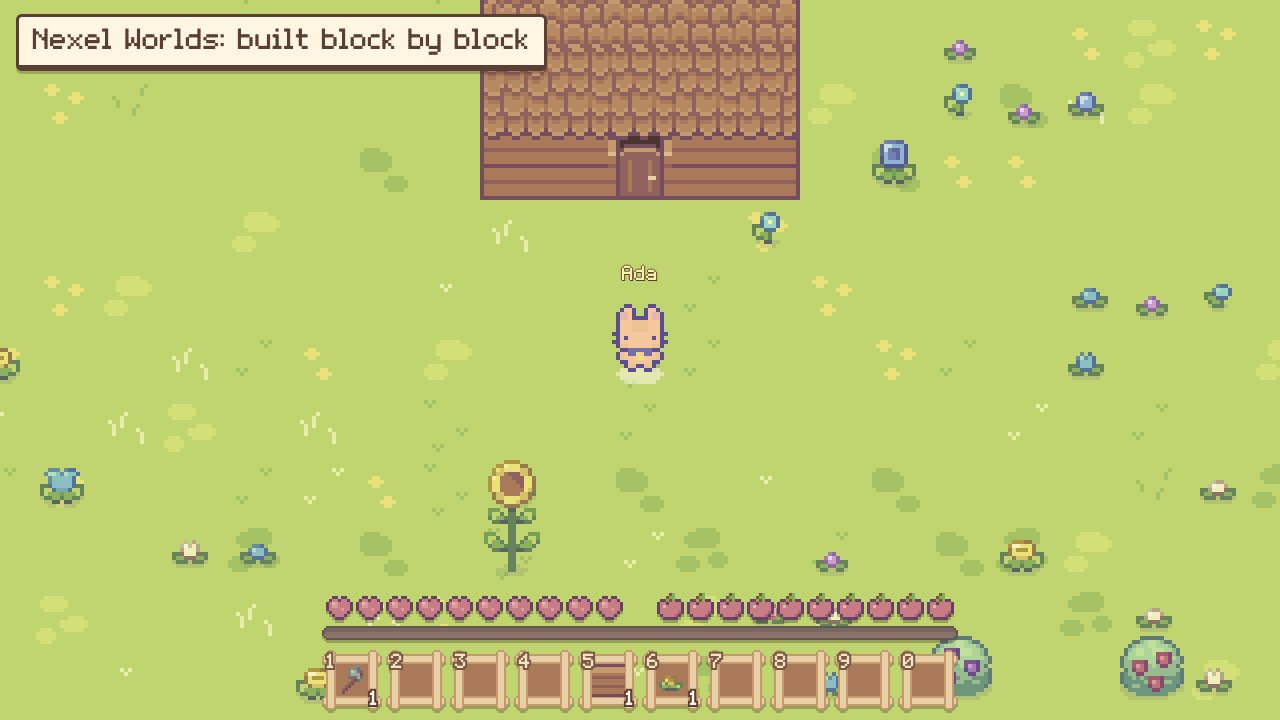
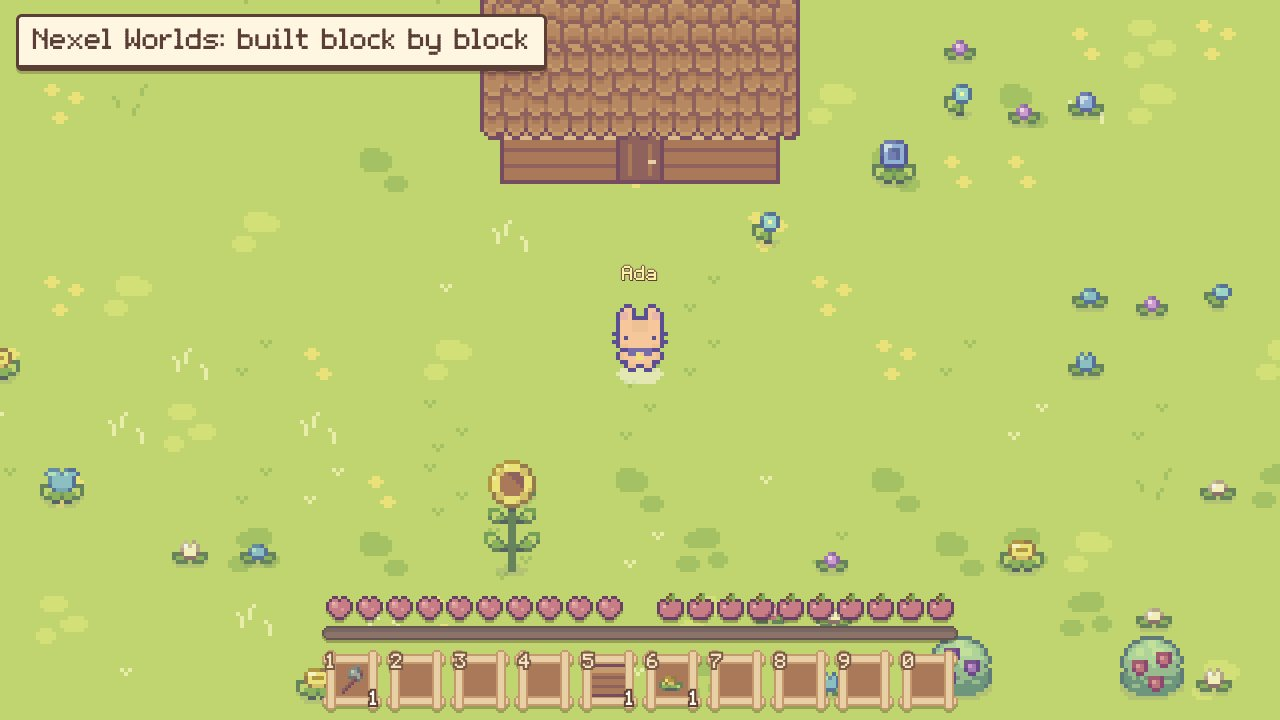
feat(web): walls are thin, on their own tile: nothing hidden, nothing
Walls are thin, on their own tile: nothing hidden, nothing seen through, a gap is a gap

Walls a tile high hid the row behind them, so their tops were seen through
near you (an x-ray with no roof), and a gap in a wall running north showed
as a patch of planks. A wall is thin now, as the pack's house walls and the
fences are: its front where nothing is south of it, a band where a wall goes
on, joined at corners and Ts. A side door: posts, a leaf, a shadow under it.

Claude-Session: https://claude.ai/code/session_011zaXs2MUMAd8vYwC7YncED

Changed region(s): [[0.375, 0.1833, 0.625, 0.275]]

diff --git a/src/megastructure/web/js/structures.js b/src/megastructure/web/js/structures.js
@@ -1,26 +1,26 @@
 // What is built, drawn a piece at a time. A house was walls drawn as small blocks until they closed a room; then
 // a roof and a tall front were drawn over the lot in one go: a house dropped onto the world. Now each wall is
 // itself from the first one laid, and a roof is tiles laid one by one (the server keeps where: sim/roofing.py).
-//   A wall is a block, a tile high: its top, drawn a tile up (over the tile north of it: it hides what is behind
-//   it), the same for every wall, edged where no wall is beside it; and, where nothing is built south of it, its
-//   front under that: the pack's planks (stone: its stones). So a wall running east is a band of top over a band of
-//   front, one running north a band of top with a front at its south end, and they meet as one thing at a corner.
-//   (They were two things: fronts with a trim over them one way, wide flat bands the other.)
-//   A door in a run east-west is the pack's door in that front, as it is drawn (it was stretched). In a run
-//   north-south it is seen from above, as the game's holes are: the wall's band is open over the door's own tile
-//   (the top of the wall south of it is left out there, or it would hide the way through), dark in under the
-//   lintel and lighter towards you, the band's edges going on as its posts, and the door's leaf across it, shut,
-//   or back against a post while someone goes through.
+//   A wall is thin, as the pack's own house walls are and as a fence is: it stands in the middle of its tile and
+//   everything of it is drawn on that tile (4 px over it), so it hides nothing behind it. Where nothing is built
+//   south of it, it shows its front: a cap over planks, from the wall beside it (or its own middle) to the wall on
+//   its other side. Where a wall goes on south of it, it shows its top: a band 6 px wide down the middle of the
+//   tile, and the front of a wall joining it from a side runs up to that band. So a corner, a T and a crossing are
+//   one wall, a gap in a wall is a gap, and a wall that ends has an end.
+//   (Twice before: fronts one way and wide flat bands the other, which met badly; then blocks a tile high, whose
+//   tops hid the row behind them, were seen through to make up for it, and turned a gap into a patch of planks.)
+//   A door in a run east-west is the pack's door, as it is drawn. In a run north-south it is seen from above: the
+//   band's two ends as its posts, the leaf between them (back against a post while someone goes through), and
+//   under it the doorway's shadow, the dark of the game's holes.
 //   Nothing is put on a wall that you did not put there (windows came by themselves, one wall in three).
 //   A roof tile is drawn over its tile, a tile and a bit up (on the walls): its top edge scalloped where no roof
 //   is north of it, its eave where none is south, its sides where none is beside it, the ridge half way down its run.
-// Where you stand under a roof, that whole roof is seen through; so are the wall tops south of you and near (a
-// wall a tile high hides the row behind it: you, and what you are at); in build mode every roof is, so that what
-// is under it can be planned.
+// Where you stand under a roof, that whole roof is seen through; in build mode every roof is, so that what is
+// under it can be planned. Walls are never seen through: they are in nothing's way.
 // (A server from before roofs were laid by hand says so by not saying `roofs`: houses.js then draws as it did.)
 let ROOFS = false, roofVer = 0;
 const Structures = (() => {
-  const WALLS = "W%+", LIFT = 22, INK = "#754c60", CAP = "#c49a6c", BEVEL = "#b68962", STONE = ["#8a8f8c", "#b6bab1", "#9da89a"];
+  const WALLS = "W%+", LIFT = 22, INK = "#754c60", CAP = "#c49a6c", STONE = ["#6f7471", "#b6bab1"];
   const wall = (x, y) => WALLS.includes(combAt(x, y) || "-");
   const sideDoor = (x, y) => combAt(x, y) === "+" && !wall(x - 1, y) && !wall(x + 1, y) && (wall(x, y - 1) || wall(x, y + 1));      // a door in a run north-south
   const roofAt = (x, y) => { const t = tileIdx(x, y); return !!t && !!t[0].roofs && t[0].roofs.has(t[1]); };
@@ -39,60 +39,47 @@ const Structures = (() => {
     return (under = {at, ver: roofVer, tiles}).tiles;
   }
   const seeThrough = (x, y) => (mine().has(x + "," + y) ? .12 : Build.on ? .4 : 1);          // how much of the roof tile at (x, y) is drawn
-  // A wall's top: a plain cap a tile up, edged where no wall is beside it, a darker line along its south where its
-  // front begins
-  function cap(px, py, z, x, y, stone) {
-    const top = py - 16 * z, open = (dx, dy) => !wall(x + dx, y + dy);
-    ctx.fillStyle = stone ? STONE[1] : CAP; ctx.fillRect(px, top, 16 * z, 16 * z);
-    ctx.fillStyle = stone ? STONE[2] : BEVEL;
-    if (open(0, -1)) ctx.fillRect(px, top + z, 16 * z, z);
-    if (open(0, 1)) ctx.fillRect(px, top + 14 * z, 16 * z, z);
-    if (open(-1, 0)) ctx.fillRect(px + z, top, z, 16 * z);
-    if (open(1, 0)) ctx.fillRect(px + 14 * z, top, z, 16 * z);
-    ctx.fillStyle = stone ? STONE[0] : INK;
-    if (open(-1, 0)) ctx.fillRect(px, top, z, 16 * z);
-    if (open(1, 0)) ctx.fillRect(px + 15 * z, top, z, 16 * z);
-    if (open(0, -1)) ctx.fillRect(px, top, 16 * z, z);
-    if (open(0, 1)) ctx.fillRect(px, top + 15 * z, 16 * z, z);
-  }
   // A door: open while someone is by it (as houses.js has it), and the sheet's frame for how far (5: shut)
   function doorFrame(x, y) {
-    const key = x + "," + y, near = [[0, 0], [0, -1], [0, 1]].some(([dx, dy]) => occupied.has((x + dx) + "," + (y + dy)));
+    const key = x + "," + y, near = [[0, 0], [0, -1], [0, 1], [1, 0], [-1, 0]].some(([dx, dy]) => occupied.has((x + dx) + "," + (y + dy)));
     const o = Math.max(0, Math.min(1, (doors.get(key) || 0) + (near ? .15 : -.1)));
     if (!(doors.get(key) || 0) && o) sfx("gate", x, y);
     doors.set(key, o);
     return 5 - Math.round(o * 5);
   }
-  // The way through a door in a run north-south, on the door's own tile: shaded as a hole is (caves.js: its dark,
-  // deepest in under the lintel), a post each side, and the leaf
-  function passage(px, py, z, x, y, a) {
-    const r = (c, X, Y, W_, H_) => { ctx.fillStyle = c; ctx.fillRect(px + X * z, py + Y * z, W_ * z, H_ * z); };
-    ctx.globalAlpha = a;
-    r(`rgba(${SHADE},.42)`, 2, 0, 12, 16);
-    [.4, .28, .18, .09].forEach((al, k) => r(`rgba(${SHADE},${al})`, 2, k * 3, 12, 3));
-    r(INK, 0, 0, 1, 16); r(BEVEL, 1, 0, 1, 16); r(BEVEL, 14, 0, 1, 16); r(INK, 15, 0, 1, 16);
-    if ((a === 1 ? doorFrame(x, y) : 5) >= 3) { r(INK, 2, 6, 12, 4); r("#90625d", 2, 7, 12, 2); r("#e8cfa6", 11, 7, 1, 1); }      // shut: across the way
-    else { r(INK, 2, 0, 3, 11); r("#90625d", 2, 1, 2, 9); }                                                                    // open: back against its post
-    ctx.globalAlpha = 1;
-  }
-  // (a: how much of it is drawn: a plan's ghost is half there)
+  // One wall, on its own tile (UP px over it). a: how much of it is drawn (a plan's ghost is half there)
+  const UP = 4, L = 5, R = 11;                          // how far over its tile it stands; the band's two edges
   function drawWall(c, x, y, sx, sy, S, now, a = 1) {
-    const z = zoom, px = sx(x), py = sy(y, x), south = wall(x, y + 1), w = wall(x - 1, y), e = wall(x + 1, y), stone = c === "%";
-    // (its top is seen through when it would hide where you are: you are north of it, near, or under the roof behind it)
-    const s = myPos(), hides = a === 1 && s && ((s.y < y && y - s.y <= 4 && Math.abs(x - s.x) <= 5) || mine().has(x + "," + (y - 1)));
-    const side = sideDoor(x, y);
-    if (side) passage(px, py, z, x, y, a);
-    else if (!south) {                                 // its front
-      ctx.globalAlpha = a;
-      if (c === "+") {                                 // the pack's door between its posts, a dark doorway behind it
-        ctx.fillStyle = "#4a3530"; ctx.fillRect(px + 3 * z, py, 10 * z, 15 * z);
-        ctx.drawImage(IMG.door, (a === 1 ? doorFrame(x, y) : 5) * 16, 0, 16, 16, px, py, S, S);
-      } else if (stone) { const [gx, gy] = genCell("stone_wall"); ctx.drawImage(IMG.gen, gx, gy, 16, 16, px, py, S, S); }
-      else { const [fx, fy] = FRONT[!w ? 0 : !e ? 2 : 1]; ctx.drawImage(IMG.house_walls, fx, fy + 8, 16, 8, px, py, S, 8 * z); ctx.drawImage(IMG.house_walls, fx, fy + 8, 16, 8, px, py + 8 * z, S, 8 * z); }
+    const z = zoom, px = sx(x), py = sy(y, x) - UP * z, n = wall(x, y - 1), s = wall(x, y + 1), w = wall(x - 1, y), e = wall(x + 1, y), stone = c === "%";
+    const ink = stone ? STONE[0] : INK, top = stone ? STONE[1] : CAP, x0 = w ? 0 : L, x1 = e ? 16 : R;
+    const r = (col, X, Y, W_, H_) => { ctx.fillStyle = col; ctx.fillRect(px + X * z, py + Y * z, W_ * z, H_ * z); };
+    const planks = (X, W_) => {                         // a wall's front: under its cap, the pack's planks (stone: its stones)
+      if (W_ <= 0) return;
+      if (stone) { const [gx, gy] = genCell("stone_wall"); ctx.drawImage(IMG.gen, gx + X, gy + 2, W_, 12, px + X * z, py + 4 * z, W_ * z, 12 * z); }
+      else ctx.drawImage(IMG.house_walls, 56 + X, 4, W_, 12, px + X * z, py + 4 * z, W_ * z, 12 * z);
+    };
+    const cap = (X0, X1) => { r(top, X0, 1, X1 - X0, 3); r(ink, X0, 0, X1 - X0, 1); };
+    ctx.globalAlpha = a;
+    if (sideDoor(x, y)) {                               // seen from above: its posts, its leaf, the doorway's shadow under it
+      [.3, .2, .1].forEach((al, k) => r(`rgba(${SHADE},${al})`, 3 - k, 4, 10 + 2 * k, 8));
+      for (const Y of [0, 12]) { r(ink, L, Y, 6, 4); r(top, L + 1, Y + (Y ? 0 : 1), 4, 3); }
+      if ((a === 1 ? doorFrame(x, y) : 5) >= 3) { r(INK, 6, 4, 4, 8); r("#90625d", 7, 4, 2, 8); r("#e8cfa6", 7, 9, 1, 1); }       // shut: across the way
+      else { r(INK, R, 3, 5, 4); r("#90625d", R, 4, 4, 2); }                                                                   // open: swung back from its post
+    } else if (c === "+") {                             // the pack's door between its posts, a dark doorway behind it
+      r("#4a3530", 3, 1, 10, 14);
+      ctx.drawImage(IMG.door, (a === 1 ? doorFrame(x, y) : 5) * 16, 0, 16, 16, px, py, S, S);
+    } else if (!s) {                                    // nothing south of it: its front, from one side of it to the other
+      planks(x0, x1 - x0); cap(x0, x1);
+      if (!w) r(ink, x0, 0, 1, 16);
+      if (!e) r(ink, x1 - 1, 0, 1, 16);
+    } else {                                            // a wall goes on south of it: its top, a band; a wall from a side joins it
+      if (w) planks(0, L);
+      if (e) planks(R, 16 - R);
+      r(ink, L, 0, 1, 16); r(ink, R - 1, 0, 1, 16); r(top, L + 1, 0, R - L - 2, 16);
+      if (w) { cap(0, L + 1); r(top, L, 1, 1, 3); }
+      if (e) { cap(R - 1, 16); r(top, R - 1, 1, 1, 3); }
+      if (!n) r(ink, L, 0, R - L, 1);
     }
-    if (sideDoor(x, y - 1)) return;                    // (the wall south of such a door: its top would lie over the way through)
-    ctx.globalAlpha = a * (hides ? .3 : 1);
-    cap(px, py, z, x, y, stone);
     ctx.globalAlpha = 1;
   }
   // One roof tile: the middle of the sheet's roof, its edges laid over it where the roof ends

diff --git a/tests/e2e/test_e2e_build.py b/tests/e2e/test_e2e_build.py
@@ -151,20 +151,27 @@ def test_what_the_audit_of_build_mode_found_is_mended(game):
     assert not game.errors
 
 
-def test_a_door_in_a_wall_that_runs_north_is_an_opening_shaded_as_a_hole(game):
-    """A door in a wall running north and south was the wall's top, half seen through: no door, no way to be seen
-    going through it. It is an opening in the wall's band over the door's own tile, dark as the game's holes are
-    under its lintel, the leaf across it; the top of the wall south of it is left out there (it would lie over the
-    way through), and whoever stands in it is seen."""
+def test_walls_are_thin_and_hide_nothing_and_a_side_door_has_its_leaf_and_shadow(game):
+    """Walls were blocks a tile high: their tops hid the row behind them, were seen through near you to make up for
+    it ("xray that trigger without roof"), and a gap in a wall running north showed as a patch of planks ("weird
+    wall connexion"). A wall is thin and drawn on its own tile: the ground of the tile north of one is as it is, a
+    gap is a gap, nothing of a wall is ever seen through. A door in a run going north is seen from above: its leaf
+    between two posts, the doorway's shadow under it (the dark of the game's holes); it opens for whoever is by it."""
     game.clear_area(8)
     x, y = game.pos()
     game.stamp(3, -3, ["W", "+", "W"])                         # a run going north, a door in its middle
-    game.stamp(-3, -3, ["W+W"])                                # and one in a run going east: a door from the front, as before
+    game.stamp(-3, -3, ["W+W"])                                # one in a run going east: the door from the front
+    game.stamp(-4, 2, ["WWW"])                                 # and a wall south of open ground
     game.sleep(900)
     assert game.js("([x, y]) => [Structures.sideDoor(x + 3, y - 2), Structures.sideDoor(x - 2, y - 3), Structures.sideDoor(x + 3, y - 3)]", [x, y]) == [True, False, False]
     lum = "([dx, dy, up]) => { const t = TS(), d = ctx.getImageData(Math.round(cv.width / 2 + dx * t), Math.round(cv.height / 2 + (dy - up) * t), 1, 1).data; return d[0] + d[1] + d[2]; }"
-    grass, deep, low = game.js(lum, [5, -2, 0]), game.js(lum, [3, -2, .35]), game.js(lum, [3, -2, -.4])
-    assert deep < grass - 200 and deep < low < grass, (grass, deep, low)     # dark in under the lintel, lighter towards you, the ground still under it
-    game.rpc("dev_teleport", x=x + 3, y=y - 2)                 # in the doorway: its leaf is back against a post, and you are not under a wall's top
+    grass = game.js(lum, [6, -2, 0])
+    assert game.js(lum, [3, -2, .25]) < grass - 150 and game.js(lum, [2.78, -2, .25]) < grass - 60     # the leaf across the way; its shadow beside it, on the ground
+    assert abs(game.js(lum, [-3, 1, 0]) - grass) < 40          # the tile north of a wall: its ground, nothing over it
+    game.rpc("dev_teleport", x=x - 3, y=y + 1)                 # standing there, behind the wall: nothing of it is seen through
+    game.sleep(700)
+    px = game.js("(() => { const d = ctx.getImageData(Math.round(cv.width / 2 + TS() * .3), Math.round(cv.height / 2 + TS()), 1, 1).data; return [d[0], d[1], d[2]]; })()")
+    assert px in ([170, 121, 89], [144, 98, 93], [220, 185, 138]), px       # the wall just south of you: its planks' own colours, not thinned
+    game.rpc("dev_teleport", x=x + 3, y=y - 2)                 # in the doorway: its leaf is back against a post
     game.sleep(900)
     assert game.js("doors.get(myPos().x + ',' + myPos().y)") == 1 and not game.errors

diff --git a/JOURNAL.md b/JOURNAL.md
@@ -1359,3 +1359,13 @@ Tests: 136 unit + 31 end-to-end, 3 full e2e runs green after the fixes.
 - Seen in Chrome: a yard with a door in its east side and one in its west, a stone run with one, shut, open, and walked through.
 - Test: the tile of such a door is dark at its top, lighter at its foot, the ground still under it; a door in a run going east is not one of these; standing in it opens it. 410 unit; the build tests (4) and 19 round them pass.
 - Not done: under a roof it is hidden from outside, as everything under a roof is; the leaf is a plain bar (the pack has no door seen from above).
+
+## Iteration 122: walls are thin, on their own tile; nothing of a wall is seen through
+- User, with a picture of a yard they had built: "weird wall connexion on the left, and xray that trigger without roof !"
+- Built their yard again on a copy (7 wide, a stub of two going east from the west wall, a door south): with the west wall whole it joined well; with one tile of the west wall missing under the stub it was their picture. Two faults, one cause: the walls a tile high of iteration 120.
+  1. A block a tile high has its top one tile north of it. It hid the row behind it, and to make up for that I had the tops south of you seen through: that is the x-ray with no roof.
+  2. The same top lies over a gap of one tile in a wall that runs north: the gap cannot be seen, and the wall over it shows its front instead, a patch of planks in the middle of a wall.
+- No patch mends that: it is what a tall block is, seen from here. A wall is thin now (structures.js), as the pack's own house walls are and as a fence is: in the middle of its tile, all of it drawn on that tile (4 px over it). Nothing south of it: its front, a cap over the pack's planks, from the wall beside it (or its own middle) to the wall on its other side. A wall south of it: its top, a band 6 px wide, and the front of a wall joining from a side runs up to the band. A corner, a T and a crossing are one wall; a gap is a gap; a wall that ends has an end. Nothing of a wall is ever seen through: it is in nothing's way. (Roofs still are, from under them and in build mode.)
+- A door in a run going north (iteration 121's opening under a lintel went with the tall walls): seen from above, the band's two ends as its posts, its leaf between them, back against a post while someone is by it, and under it the doorway's shadow in the dark of the game's holes.
+- Third drawing of walls in a day (fronts and flat bands; tall blocks; thin). The first two were mine to get wrong: I chose a look, then met what it cost in the user's own house. This one I tried on their house before keeping it.
+- The clip is filmed again. Tests: the test of iteration 121 rewritten (the leaf and its shadow; the ground north of a wall is as it is; the wall south of you is its own colours, not thinned; a door opens for you). 410 unit; 31 in Chrome (build, edges, the island, pixels, land).
